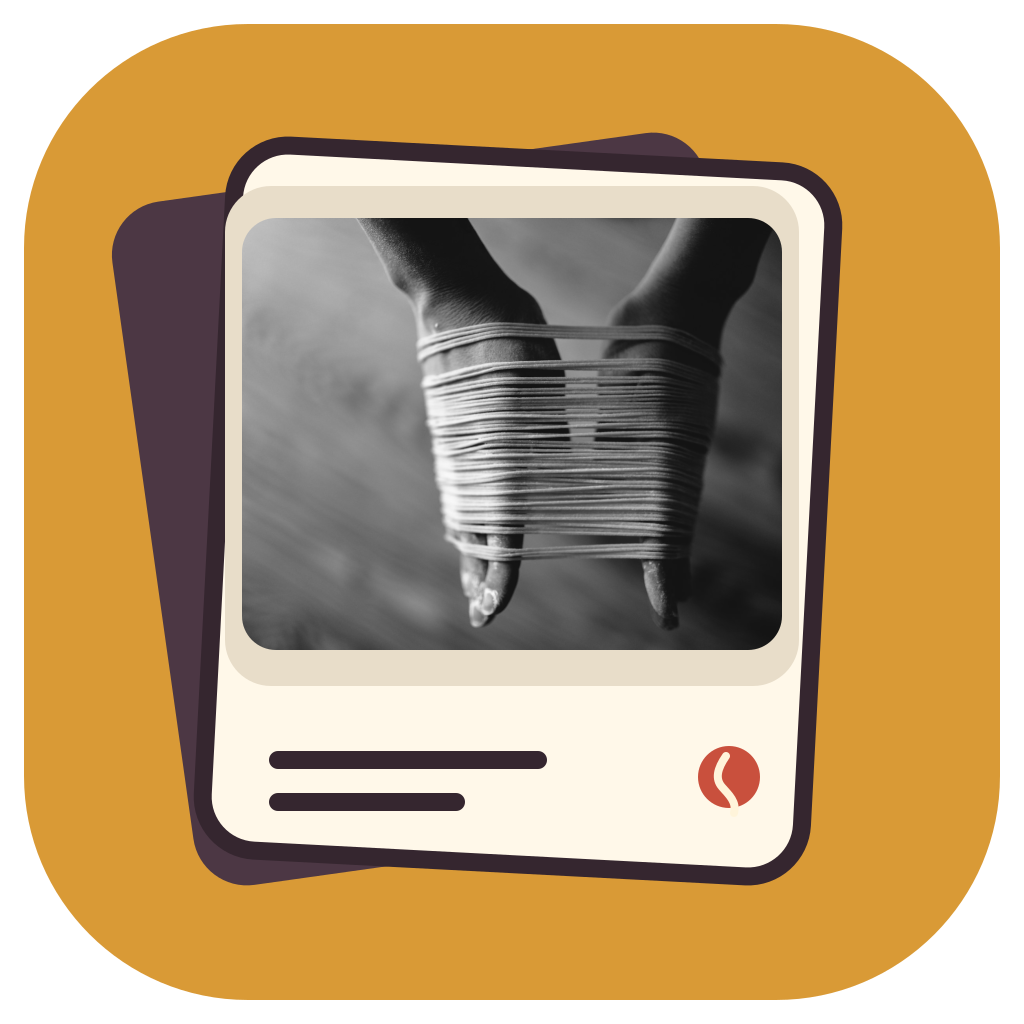
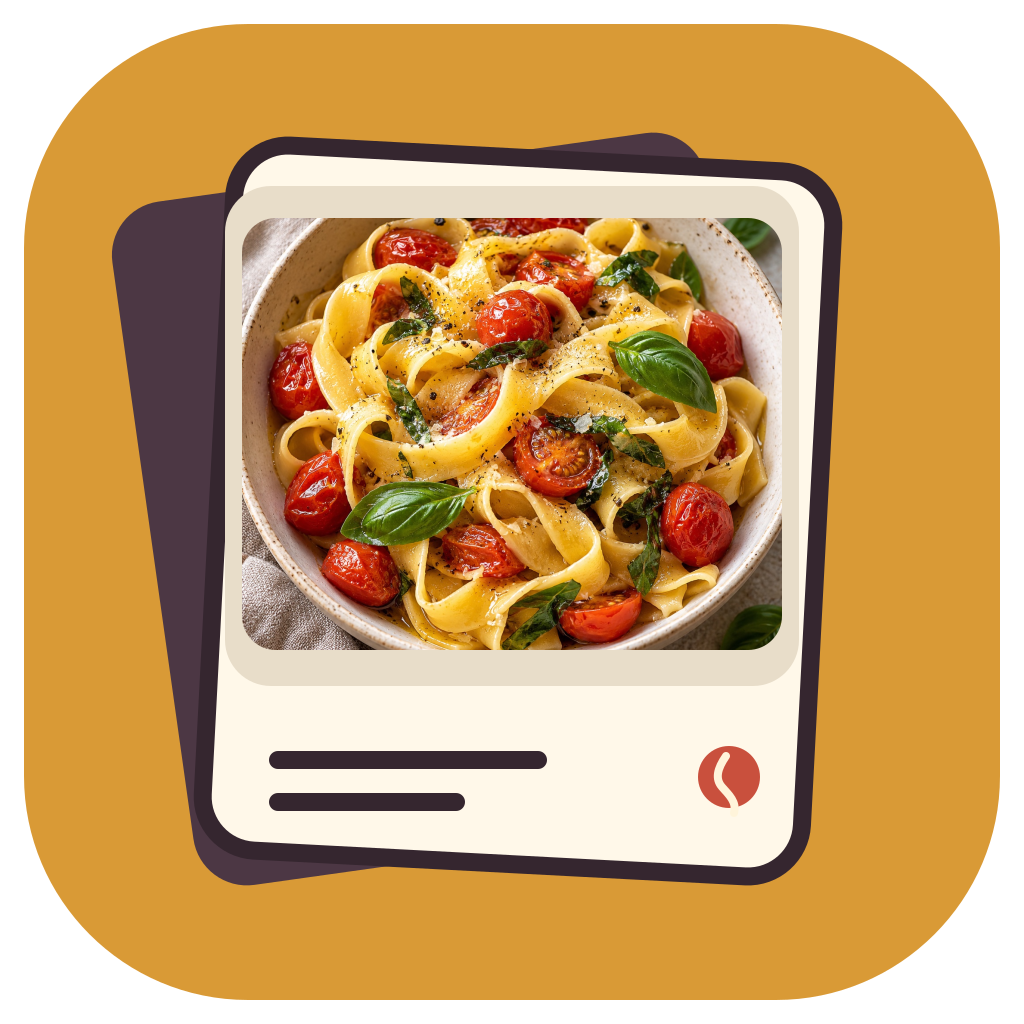
Replace monochrome brand photo with pasta and tomatoes

Changed region(s): [[0.2188, 0.1875, 0.7812, 0.6562]]

diff --git a/brand/CREDITS.md b/brand/CREDITS.md
@@ -1,5 +1,3 @@
 # Brand asset credits
 
-- Icon and repository preview photograph: Davide Ragusa, [Person making noodles](https://unsplash.com/photos/person-making-noodles-FwiLgvi-2Do), Unsplash License.
-
-Attribution is not required by the Unsplash License; it is included here to credit the photographer. The icon and preview are original SVG compositions using a crop of the local photograph.
+The app icon and repository preview use an original food photograph generated for Mealie Atelier, depicting handmade pasta with tomatoes and basil. The SVG artwork references the local `pasta-with-tomatoes.jpg` asset.
